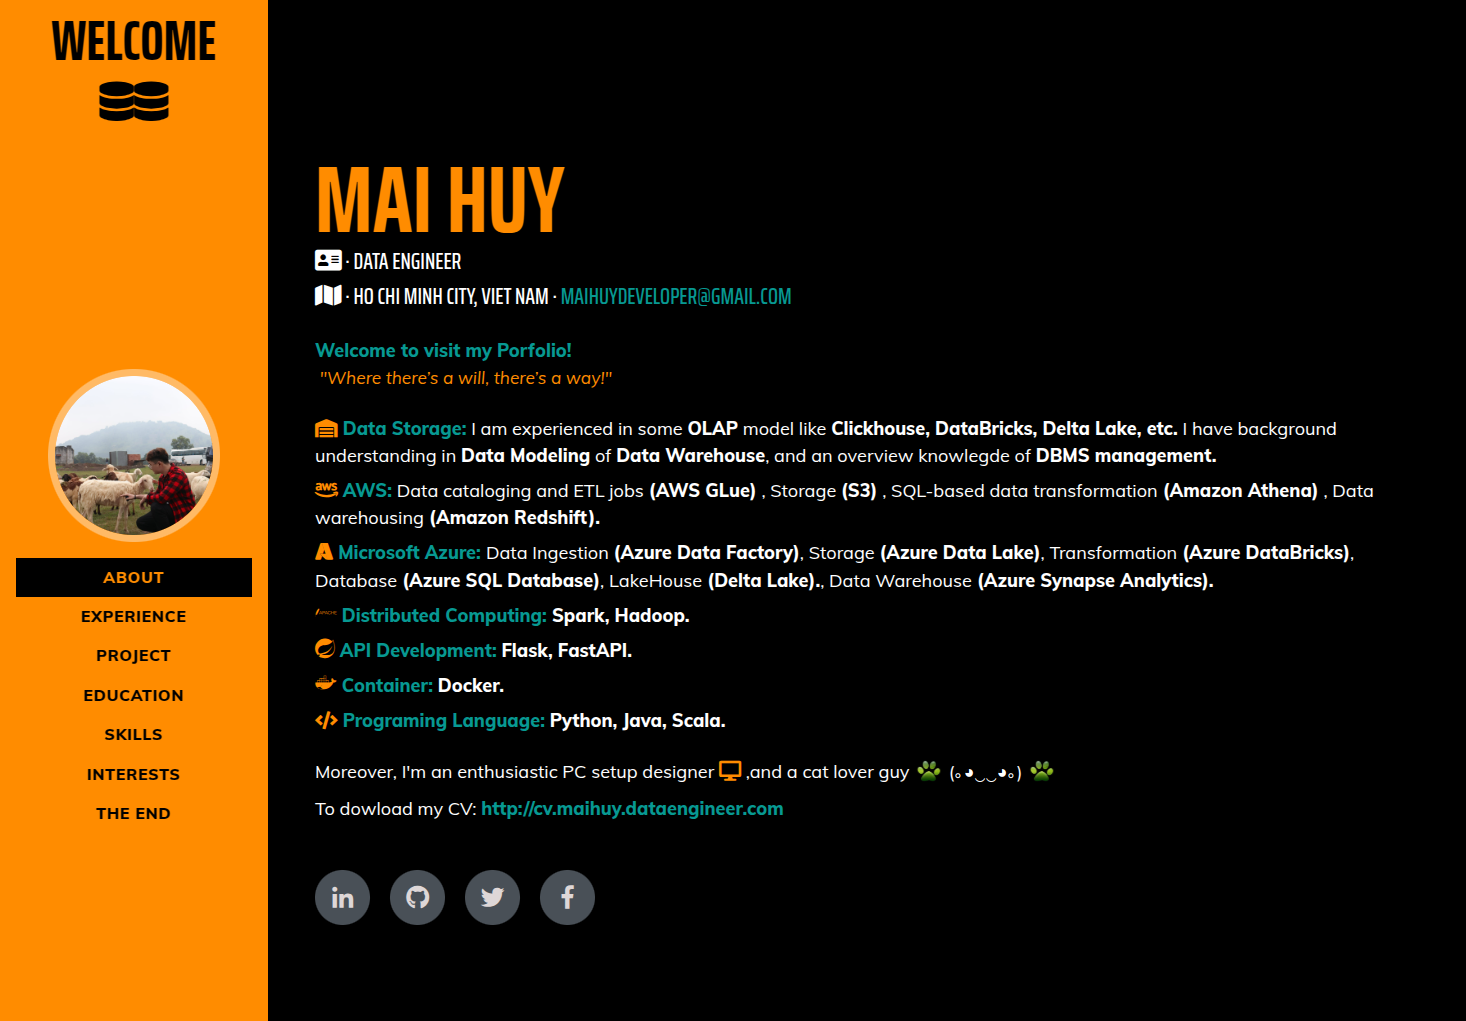
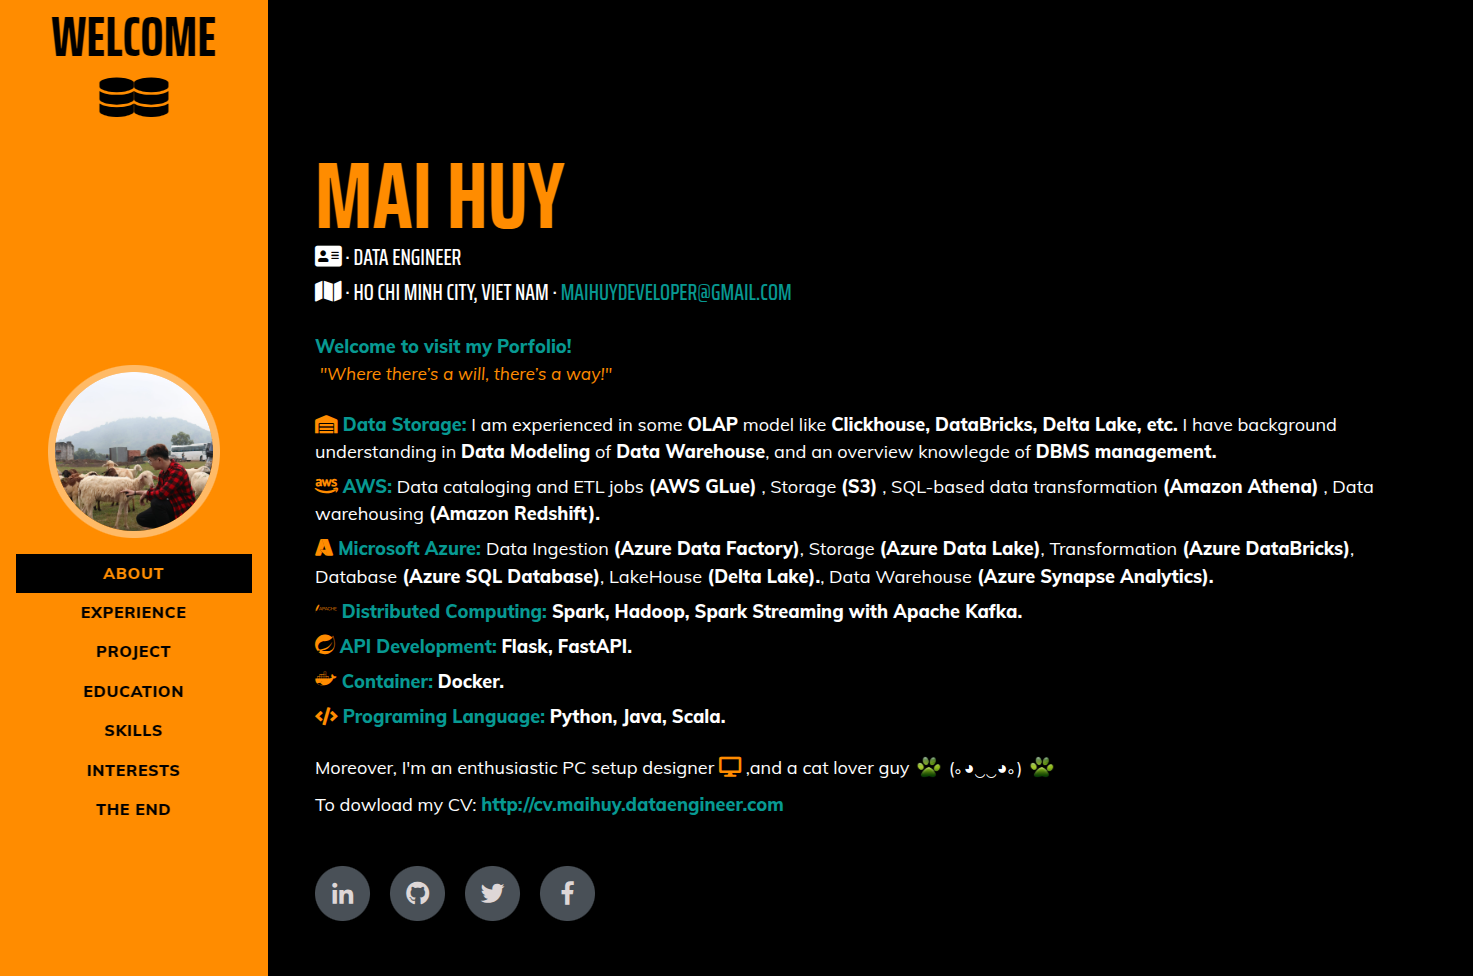
add kafka projects

diff --git a/index.html b/index.html
@@ -129,7 +129,8 @@
             Data Warehouse<strong> (Azure Synapse Analytics).</strong>
           </p>
           <p class="lead mb-2">
-            <strong style="color: #079992;"><i class="devicon-apache-plain-wordmark" style="color: #ff8c00; font-size: 22px;"></i> Distributed Computing:</strong><strong> Spark, Hadoop.</strong>
+            <strong style="color: #079992;"><i class="devicon-apache-plain-wordmark" style="color: #ff8c00; font-size: 22px;"></i> Distributed Computing:</strong
+              ><strong> Spark, Hadoop, Spark Streaming with Apache Kafka.</strong>
           </p>
           <p class="lead mb-2">
             <strong style="color: #079992;"><i class="devicon-spring-plain" style="color: #ff8c00;font-size: 20px;"></i> API Development:</strong>
@@ -298,7 +299,7 @@
                     <p class="mb-0">Azure Databrick DeltaLake DE End-To-End Project</p>
                   </div>
                 </div>
-                <img class="img-fluid" src="public/img/projects/nyc-project.png" alt="nyc-taxi-projects" />
+                <img class="img-fluid" src="public/img/projects/nyc-project.png" alt="nyc-taxi-project" />
               </a>
             </div>
             <div class="col-lg-6 p-1">
@@ -309,7 +310,7 @@
                     <p class="mb-0">Azure Databrick Synapse Analytics DE End-To-End Project</p>
                   </div>
                 </div>
-                <img class="img-fluid" src="public/img/projects/AdventureWorks.png" alt="adventure-works-projects" />
+                <img class="img-fluid" src="public/img/projects/AdventureWorks.png" alt="adventure-works-project" />
               </a>
             </div>
             <div class="col-lg-6 p-1">
@@ -321,7 +322,7 @@
                     </p>
                   </div>
                 </div>
-                <img class="img-fluid" src="public/img/projects/reddit-project.png" alt="adventure-works-projects" />
+                <img class="img-fluid" src="public/img/projects/reddit-project.png" alt="aws-reddit-project" />
               </a>
             </div>
             <div class="col-lg-6 p-1">
@@ -333,7 +334,30 @@
                     </p>
                   </div>
                 </div>
-                <img class="img-fluid" src="public/img/projects/car-sales-project.png" alt="adventure-works-projects" />
+                <img class="img-fluid" src="public/img/projects/car-sales-project.png" alt="car-sales-project" />
+              </a>
+            </div>
+            <div class="col-lg-6 p-1">
+              <a class="portfolio-item" href="https://github.com/maihuy-dataguy/Real-time-with-airflow-spark-kafka-cassandra" target="_blank" rel="noreferrer">
+                <div class="caption">
+                  <div class="caption-content">
+                    <div class="h2 flex-aic">Real time streaming data<i class="fas fa-external-link-alt" style="font-size: 8px;"></i></div>
+                    <p class="mb-0">Streaming data pipeline with Aiflow, Spark, Kafka, Cassandra
+                    </p>
+                  </div>
+                </div>
+                <img class="img-fluid" src="public/img/projects/spark_kafka_cassandra.png" alt="spark_kafka_cassandra-project" />
+              </a>
+            </div>
+            <div class="col-lg-6 p-1">
+              <a class="portfolio-item" href="https://github.com/maihuy-dataguy/AWS-smart-city-kafka-spark" target="_blank" rel="noreferrer">
+                <div class="caption">
+                  <div class="caption-content">
+                    <div class="h2 flex-aic">AWS Smart City data<i class="fas fa-external-link-alt" style="font-size: 8px;"></i></div>
+                    <p class="mb-0">Data Pipeline with Spark, Kafka, S3, AWS Glue, AWS Athena, AWS Redshift
+                  </div>
+                </div>
+                <img class="img-fluid" src="public/img/projects/aws-smart-city.png" alt="aws-smart-city-project" />
               </a>
             </div>
  
